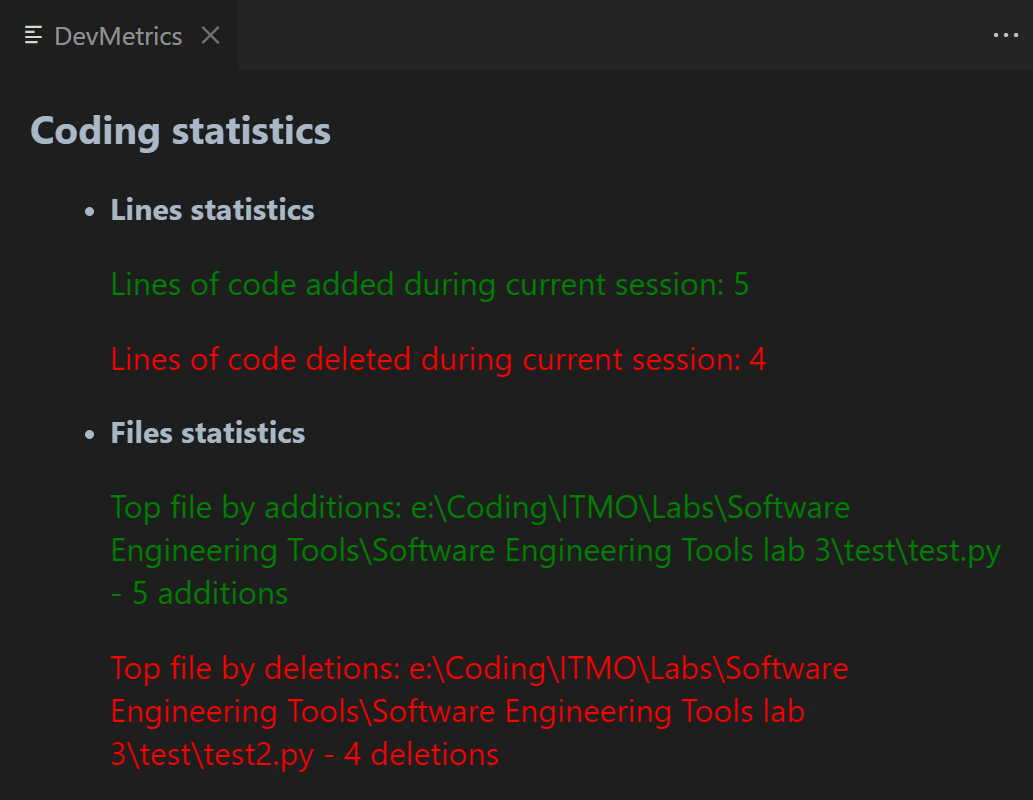
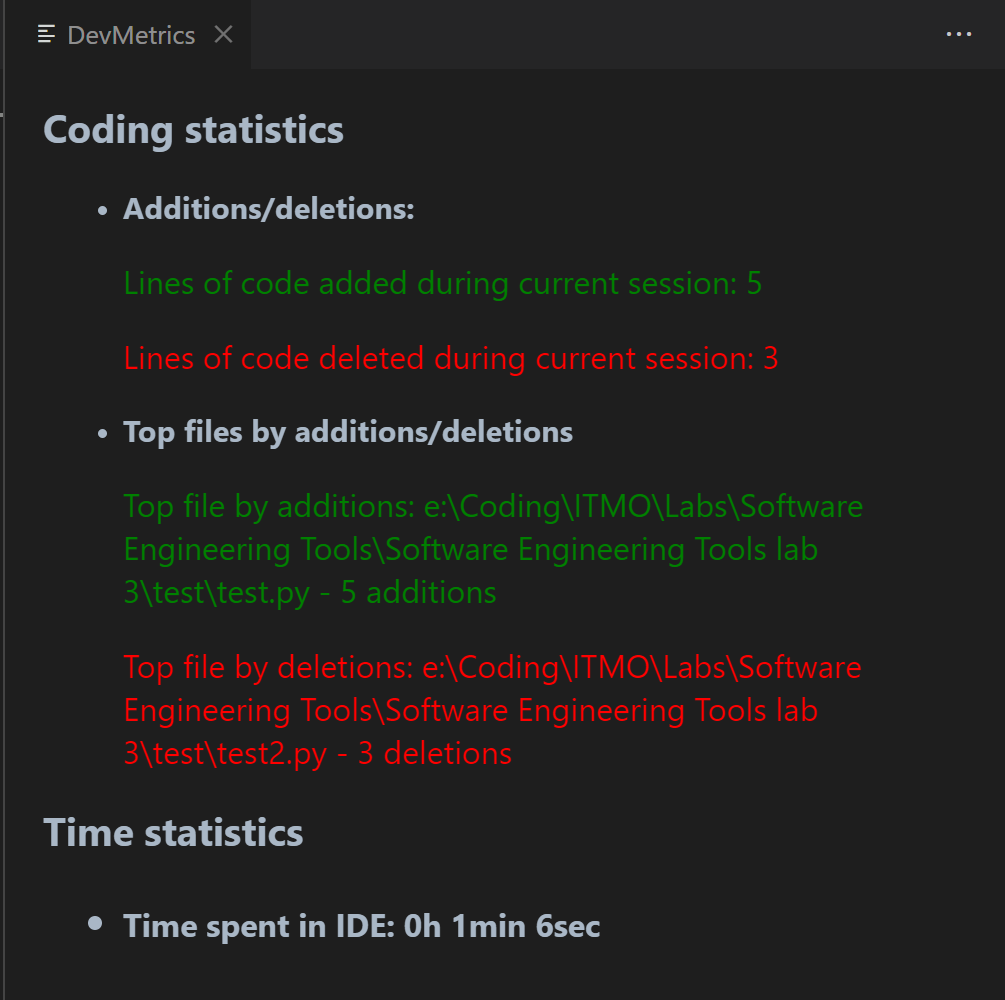
docs: README updated

diff --git a/README.md b/README.md
@@ -6,7 +6,8 @@ DevMetrics is a VS code extension that allows you to track your developer statis
 
 Current features are:
 - Tracking of additions and deletions in active files
-- Tracking of the most modified files
+- Tracking of top files by additions\deletions
+- Tracking of time spent in IDE
 
 <img src="images/features_example.png" width="400" />
 
